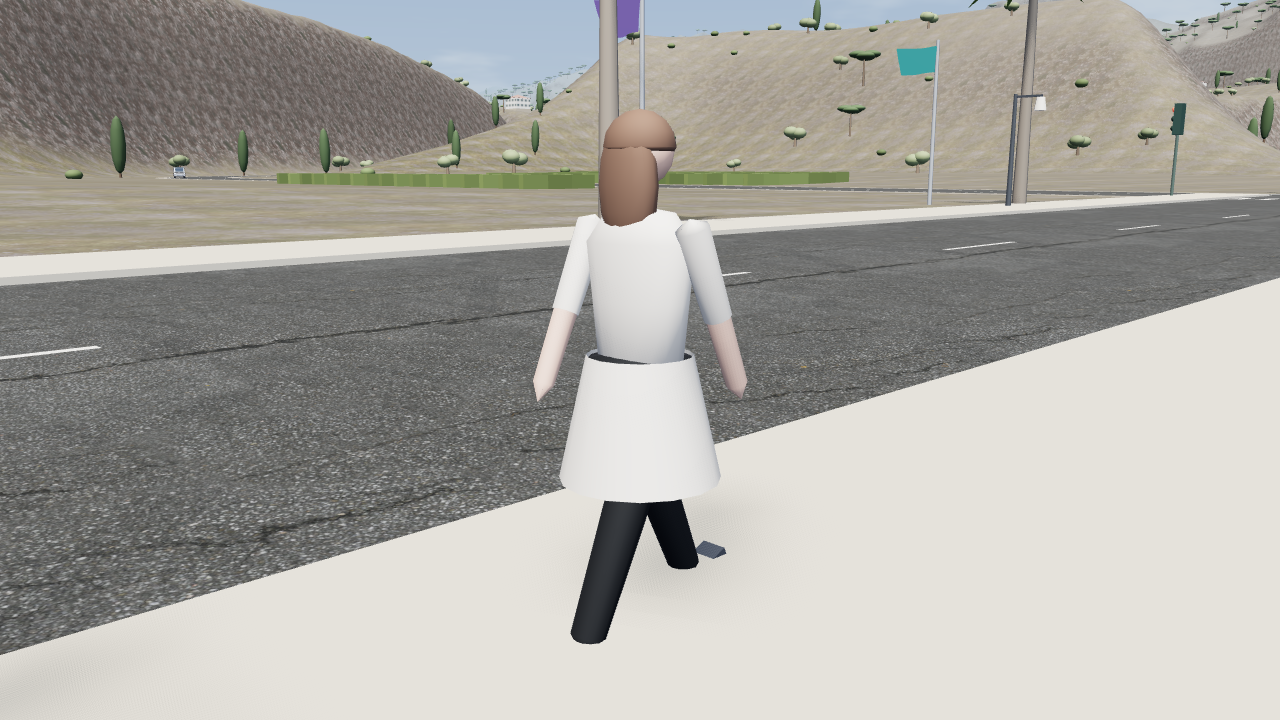
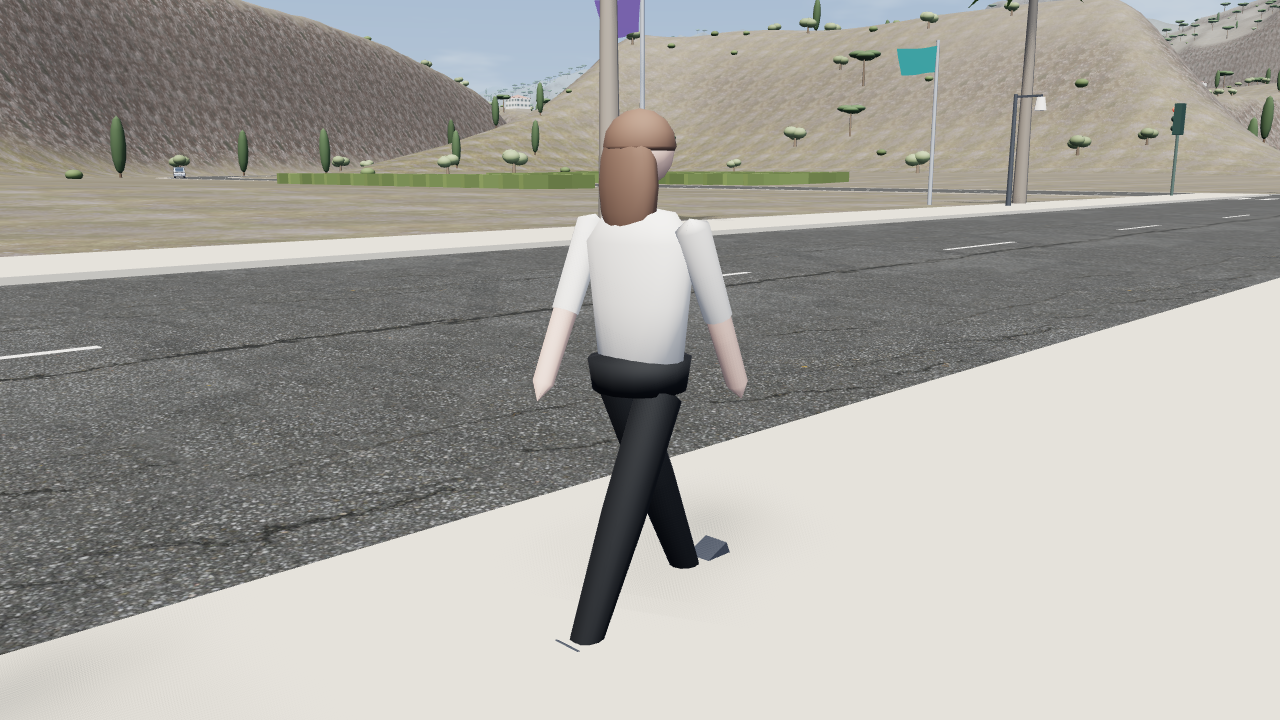
fix(web): phase 4 review: keep the pedestrian silhouette visible, caps off faces, outward lathes (#25)
- Sim pedestrians no longer wear dresses: the cone hid the dark lower body
  the camera's pedestrian mask reads. Caps keep to the crown.
- Crowds pick trousers, top, skin and hair from separate bits (they were
  correlated); the stub kit now records instance colours, so the
  never-the-silhouette test can fail.
- Lathes around x and z face outward (the roadster's steering wheel and
  the arch liners were inside out); loft caps get their own ring copies,
  so nose and tail faces shade flat.
- SEMIF_WORLD_KIT.hero() rejects instead of throwing inside the bundle's
  build().
- Hats use their own off-white, distinct from the white top.

Refs #25

diff --git a/jevpilot_vision/web/semif-world/people.js b/jevpilot_vision/web/semif-world/people.js
@@ -2,8 +2,8 @@
 //
 // Sim pedestrians: head, neck, torso, pelvis, arms and legs, with pivots at the shoulders and hips
 // that the bundle swings (`userData.limbs = {legs, arms}`). Build, skin, hair, clothes and
-// accessories vary per id. The lower body is always PALETTE.people.silhouette: the onboard
-// camera's pedestrian mask looks for that dark shape.
+// accessories vary per id. The lower body is always PALETTE.people.silhouette and nothing covers
+// it (no dresses): the onboard camera's pedestrian mask looks for that dark shape.
 //
 // Crowds at the festival, the cafés and the beach are decoration, not in the simulation:
 // instanced, at least 8 m from the lanes, never in the silhouette colour.
@@ -29,7 +29,6 @@ export function pedestrianLook(id) {
     hair: pick(P.hair, 3),
     style: pick(STYLES, 6),
     top: pick(P.top, 9),
-    dress: (h >>> 13) % 5 === 0,
     hat: pick(P.hat, 15),
     bag: (h >>> 18) % 3 === 0 ? pick(P.bag, 20) : null,
     shades: (h >>> 22) % 3 === 0,
@@ -67,7 +66,10 @@ function head(parts, look) {
     parts.add(mat(look.hat), lathe([[0.1, 1.69], [0.1, 1.77], [0.001, 1.78]], { axis: "y", segments: 14 }));
   }
   if (look.style === "cap") {
-    parts.add(mat(look.hat), sphere(0.115, 1.625, 6, 14));
+    // The crown only: the cap sits above the face.
+    const crown = sphere(0.115, 1.625, 6, 14);
+    for (let i = 1; i < crown.positions.length; i += 3) crown.positions[i] = Math.max(1.61, crown.positions[i]);
+    parts.add(mat(look.hat), crown);
     parts.add(mat(look.hat), box(0.14, 0.015, 0.1, 0, 1.68, -0.12));
   }
   if (look.shades) parts.add(mat(P.shades), box(0.15, 0.035, 0.02, 0, 1.62, -0.1));
@@ -88,7 +90,6 @@ export function buildPedestrian(id) {
 
   const body = new Parts();
   body.add(top, scale(lathe([[0.001, 0.95], [0.16, 0.97], [0.18, 1.15], [0.2, 1.33], [0.13, 1.42], [0.001, 1.44]], { axis: "y", segments: 16 }), 1, 1, 0.66));
-  if (look.dress) body.add(top, lathe([[0.17, 0.98], [0.26, 0.58]], { axis: "y", segments: 16 }));
   head(body, look);
   if (look.bag) body.add(mat(look.bag), box(0.06, 0.22, 0.28, 0.22, 1.0, 0.02));
   const torso = new T.Group();
@@ -202,6 +203,9 @@ function figurePart(part) {
   return p.meshes()[0];
 }
 
+// Each part picks its colour from its own bits of the person's look number.
+const SHIFT = { legs: 3, torso: 8, head: 13, hair: 18 };
+
 export function buildCrowds(spots) {
   const group = new T.Group();
   group.name = "semif-crowds";
@@ -218,7 +222,7 @@ export function buildCrowds(spots) {
       pos.set(s.x, s.y, s.z);
       mesh.setMatrixAt(i, m4.compose(pos, q, new T.Vector3(size, size, size)));
       const list = colourOf[part];
-      mesh.setColorAt(i, colour.set(list[(s.look >>> (part.length * 3)) % list.length]));
+      mesh.setColorAt(i, colour.set(list[(s.look >>> SHIFT[part]) % list.length]));
     });
     mesh.castShadow = true;
     mesh.receiveShadow = true;

diff --git a/jevpilot_vision/web/semif-world/shapes.js b/jevpilot_vision/web/semif-world/shapes.js
@@ -61,13 +61,19 @@ export function loft({ z0, z1, half, bottom, top, n = 4, step = 0.06, around = 2
     for (const [key, list] of indexOf) out[key] = { positions: positions.slice(), index: list };
     return out;
   }
+  // Each cap has its own copy of its ring, so its flat normals do not bend the sides.
   for (const [r, sign] of [[0, -1], [zs.length - 1, 1]]) {
-    const c = positions.length / 3;
-    let x = 0, y = 0;
-    for (let k = 0; k < around; k++) y += positions[(r * around + k) * 3 + 1] / around;
-    positions.push(x, y, zs[r]);
+    const first = positions.length / 3;
+    let y = 0;
     for (let k = 0; k < around; k++) {
-      const a = r * around + k, b = r * around + ((k + 1) % around);
+      const i = (r * around + k) * 3;
+      positions.push(positions[i], positions[i + 1], positions[i + 2]);
+      y += positions[i + 1] / around;
+    }
+    const c = positions.length / 3;
+    positions.push(0, y, zs[r]);
+    for (let k = 0; k < around; k++) {
+      const a = first + k, b = first + ((k + 1) % around);
       if (sign < 0) index.push(c, b, a);
       else index.push(c, a, b);
     }
@@ -86,10 +92,13 @@ export function lathe(profile, { axis = "x", segments = 20, phase = 0 } = {}) {
       else positions.push(c, t, s);
     }
   }
+  // Around x or z the axes are a mirror image of the y case, so the winding flips with them.
+  const flip = axis !== "y";
   for (let p = 0; p < profile.length - 1; p++) {
     for (let k = 0; k < segments; k++) {
       const a0 = p * segments + k, a1 = p * segments + ((k + 1) % segments), b0 = a0 + segments, b1 = a1 + segments;
-      index.push(a0, b0, a1, a1, b0, b1);
+      if (flip) index.push(a0, a1, b0, a1, b1, b0);
+      else index.push(a0, b0, a1, a1, b0, b1);
     }
   }
   return { positions, index };

diff --git a/jevpilot_vision/web/semif-world/index.js b/jevpilot_vision/web/semif-world/index.js
@@ -89,7 +89,12 @@ function heroModel() {
 window.SEMIF_WORLD_KIT = {
   hero(view) {
     if (view?.sim?.world?.type !== "coast") return undefined;
-    return Promise.resolve(buildHero(heroModel()));
+    // It runs inside the bundle's build(): a failure must reach its .catch, not abort the build.
+    try {
+      return Promise.resolve(buildHero(heroModel()));
+    } catch (err) {
+      return Promise.reject(err);
+    }
   },
 };
 

diff --git a/jevpilot_vision/web/semif-world/kit.js b/jevpilot_vision/web/semif-world/kit.js
@@ -61,7 +61,7 @@ export const PALETTE = {
     hair: ["#7d6252", "#a08a78", "#b8a088", "#7a6f68", "#4f4a47"],
     top: ["#e9e4da", "#5f7fa0", "#c4808a", "#7a9a72", "#d9c27a", "#8a6b8f", "#5d8a8c"],
     bottom: ["#5f6f86", "#b7a98c", "#7b7f86", "#e6e1d5"],
-    hat: ["#d8c48e", "#3f5f7f", "#e9e4da"],
+    hat: ["#d8c48e", "#3f5f7f", "#efe8d8"],
     bag: ["#7d6252", "#c9b48e"],
     shades: "#4a4f57",
   },

diff --git a/tests/test_people.py b/tests/test_people.py
@@ -54,3 +54,35 @@ def test_crowds_fill_the_festival_cafes_and_beach_away_from_the_lanes():
     assert got["wet"] == 0 and got["floating"] == 0 and got["same"]
     assert not got["silhouette"], "crowds never look like sim pedestrians to the camera"
     assert got["name"] == "semif-crowds"
+
+
+def test_nothing_hides_a_sim_pedestrians_lower_body_and_caps_leave_the_face_clear():
+    """Review: a dress over the hips hid the silhouette the camera reads; a cap swallowed the head."""
+    got = _render(
+        _PEOPLE
+        + "const lows = [], caps = [];"
+        "for (let i = 0; i < 120; i++) { const id = `ped-${i}`, look = P.pedestrianLook(id), g = buildIt(id);"
+        "  for (const n of all(g)) { const p = n.geometry?.attributes?.position?.array; if (!p || !n.material) continue;"
+        "    const oy = (n.parent?.position?.y || 0);"
+        "    if (n.material.color === look.top) for (let k = 1; k < p.length; k += 3) if (p[k] + oy < 0.9 * look.scale) { lows.push(id); break; }"
+        "    if (look.style === 'cap' && n.material.color === look.hat) for (let k = 1; k < p.length; k += 3) if (p[k] < 1.6 * look.scale - 0.005) { caps.push(id); break; } } }"
+        "out({ lows: [...new Set(lows)].slice(0, 5), caps: [...new Set(caps)].slice(0, 5) });"
+        .replace("buildIt(id)", "(() => { const g = P.buildPedestrian(id); const fix = (n) => { (n.children || []).forEach((c) => { c.parent = n; fix(c); }); }; fix(g); return g; })()")
+    )
+    assert got["lows"] == [], "no top-coloured cloth below the hips"
+    assert got["caps"] == [], "a cap sits on the head, above the face"
+
+
+def test_crowd_clothes_skin_and_hair_are_picked_independently_and_never_the_silhouette():
+    got = _render(
+        _PEOPLE
+        + "const H = await mod('heights.js'); const field = H.createHeightField(world); const grid = (await mod('terrain.js')).groundGrid(world, field);"
+        "const g = P.buildCrowds(P.placeCrowds(world, field, grid));"
+        "const by = Object.fromEntries(g.children.map((m) => [m.name, m.colours]));"
+        "const legs = by['crowd-legs'], skin = by['crowd-head'];"
+        "const pair = new Set(legs.map((c, i) => `${K.people.bottom.indexOf(c)}:${K.people.skin.indexOf(skin[i])}`));"
+        "out({ n: legs.length, legOk: legs.every((c) => K.people.bottom.includes(c)), skinOk: skin.every((c) => K.people.skin.includes(c)),"
+        "  silhouette: Object.values(by).some((list) => list.includes(K.people.silhouette)), pairs: pair.size });"
+    )
+    assert got["legOk"] and got["skinOk"] and not got["silhouette"]
+    assert got["pairs"] >= 10, "trousers do not decide skin (4 x 4 combinations should mostly appear)"

diff --git a/tests/test_vehicles.py b/tests/test_vehicles.py
@@ -85,3 +85,33 @@ def test_traffic_models_fit_their_footprints_and_paint_is_picked_per_car():
     assert {look["kind"] for look in got["looks"]} == {"hatch", "sedan", "wagon", "suv", "van", "pickup", "motorcycle"}
     assert all(look["kind"] == "motorcycle" for i, look in enumerate(got["looks"]) if i % 10 == 0)
     assert got["again"] == got["looks"][7], "the same car always looks the same"
+
+
+def test_lathes_face_outward_on_every_axis_and_loft_caps_have_their_own_vertices():
+    """Review: lathes around x and z were inside out; caps shared ring vertices, so ends shaded like domes."""
+    got = _render(
+        "const S = await mod('shapes.js');"
+        "const normalAt = (part, i) => { const p = part.positions, [a, b, c] = part.index.slice(i, i + 3).map((k) => [p[3 * k], p[3 * k + 1], p[3 * k + 2]]);"
+        "  const u = b.map((v, k) => v - a[k]), w = c.map((v, k) => v - a[k]); const n = [u[1] * w[2] - u[2] * w[1], u[2] * w[0] - u[0] * w[2], u[0] * w[1] - u[1] * w[0]];"
+        "  const centre = [0, 1, 2].map((k) => (a[k] + b[k] + c[k]) / 3); return { n, centre }; };"
+        "const outward = (axis) => { const part = S.lathe([[1, -0.5], [1, 0.5]], { axis, segments: 12 }); let ok = 0, all = 0;"
+        "  for (let i = 0; i < part.index.length; i += 3) { const { n, centre } = normalAt(part, i); const k = { x: 0, y: 1, z: 2 }[axis];"
+        "    const radial = centre.map((v, j) => (j === k ? 0 : v)); all++; if (n[0] * radial[0] + n[1] * radial[1] + n[2] * radial[2] > 0) ok++; } return ok / all; };"
+        "const body = S.loft({ z0: -1, z1: 1, half: () => 1, bottom: () => 0, top: () => 1, around: 12, step: 0.5 });"
+        "const rings = body.positions.length / 3; const sideMax = 5 * 12;"
+        "const capIdx = body.index.slice(4 * 12 * 6);"
+        "out({ x: outward('x'), y: outward('y'), z: outward('z'), shared: capIdx.filter((k) => k < sideMax).length });"
+    )
+    assert got["x"] == 1 and got["y"] == 1 and got["z"] == 1, got
+    assert got["shared"] == 0, "cap triangles use their own copies of the end rings"
+
+
+def test_a_failing_hero_build_rejects_instead_of_throwing_into_the_bundle():
+    got = _render(
+        "const K = await mod('kit.js'); const Group = K.T.Group; K.T.Group = undefined;"  # the build cannot make a group
+        "let threw = false, rejected = false;"
+        "try { const p = window.SEMIF_WORLD_KIT.hero({ sim: { world } }); await p.then(() => {}, () => { rejected = true; }); } catch (e) { threw = true; }"
+        "K.T.Group = Group;"
+        "out({ threw, rejected });"
+    )
+    assert got == {"threw": False, "rejected": True}

diff --git a/tests/test_world_render.py b/tests/test_world_render.py
@@ -39,7 +39,7 @@ const kit = { Group: Obj, Mesh, BufferGeometry: Geo, Float32BufferAttribute: fun
   TextureLoader: class { load(url) { return { url }; } }, RepeatWrapping: 1000, SRGBColorSpace: "srgb",
   WebGLRenderTarget: class { constructor(w, h, o) { this.width = w; this.height = h; this.options = o; this.texture = {}; } dispose() {} },
   OrthographicCamera: class {}, PlaneGeometry: Geo, CylinderGeometry: Geo, BoxGeometry: Geo, ConeGeometry: Geo, mergeGeometries: () => new Geo(),
-  InstancedMesh: class extends Mesh { constructor(g, m, n) { super(g, m); this.count = n; this.matrices = []; } setMatrixAt(i, m) { this.matrices[i] = m; } setColorAt() {} computeBoundingSphere() {} },
+  InstancedMesh: class extends Mesh { constructor(g, m, n) { super(g, m); this.count = n; this.matrices = []; this.colours = []; } setMatrixAt(i, m) { this.matrices[i] = m; } setColorAt(i, c) { this.colours[i] = c.hex; } computeBoundingSphere() {} },
   Matrix4: class { compose() { return this; } }, Quaternion: class { setFromAxisAngle() { return this; } },
   CanvasTexture: class { constructor(c) { this.image = c; } },
   Vector2: class { constructor(x = 0, y = 0) { this.x = x; this.y = y; } set(x, y) { this.x = x; this.y = y; return this; } } };
